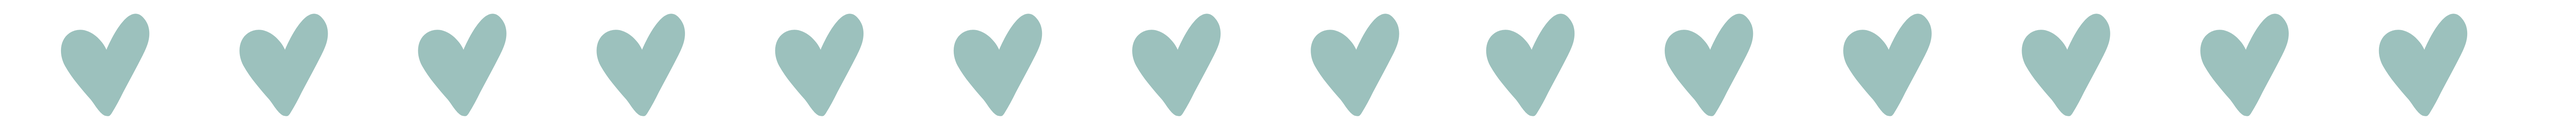
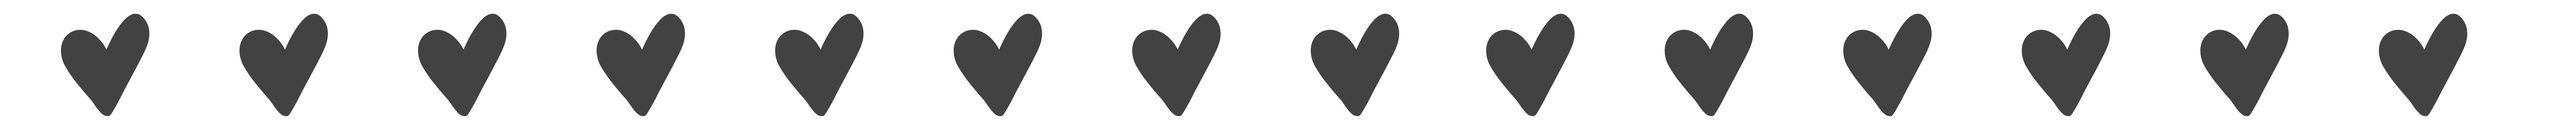
updates

diff --git a/src/styles/Home.css b/src/styles/Home.css
@@ -41,7 +41,7 @@
     display: inline-block;
     font-family: "Segoe UI", Tahoma, Geneva, Verdana, sans-serif;
     font-size: 25px;
-    color:#29877c;
+    color:#696969;
     margin-top: 12px;
     margin-bottom: 2px;
   }
@@ -64,7 +64,7 @@
     font-family: 'Proggy';
     width: 75%;
     text-align: center;
-    font-size: 25px;
+    font-size: 20px;
     color:  #696969;
   }
   .prompt svg {
